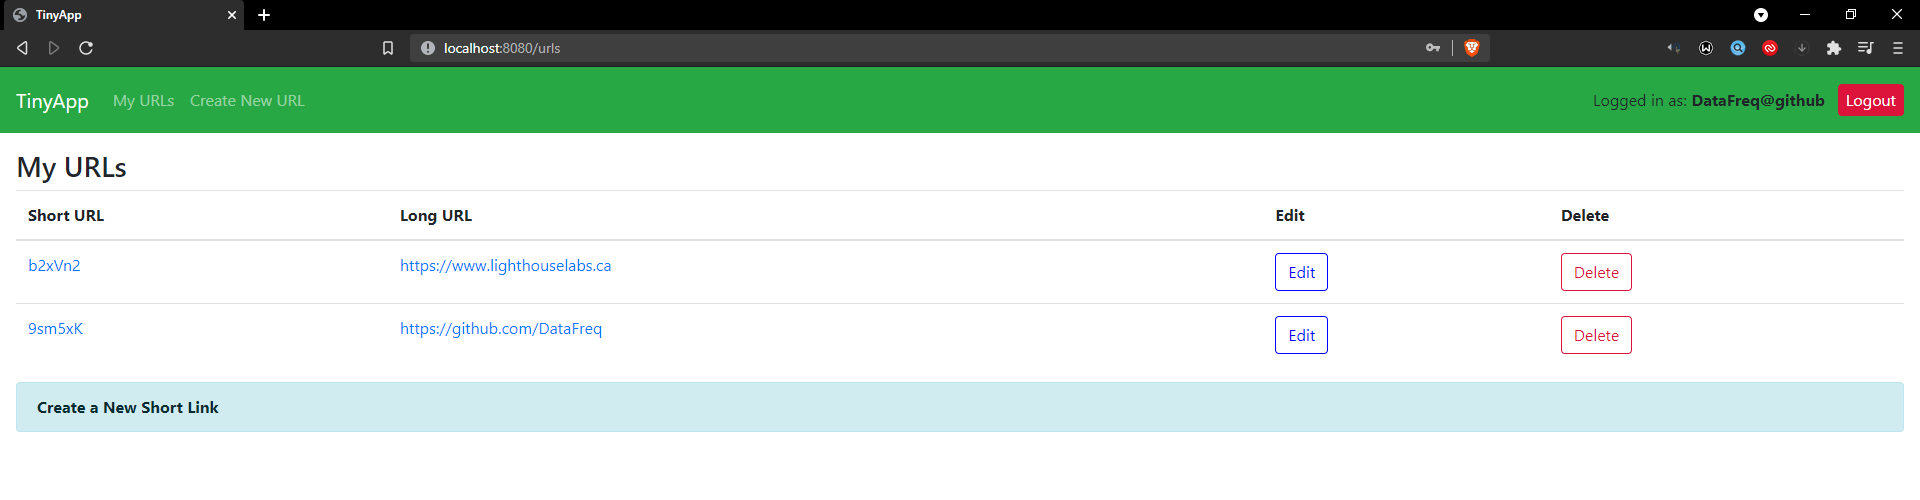
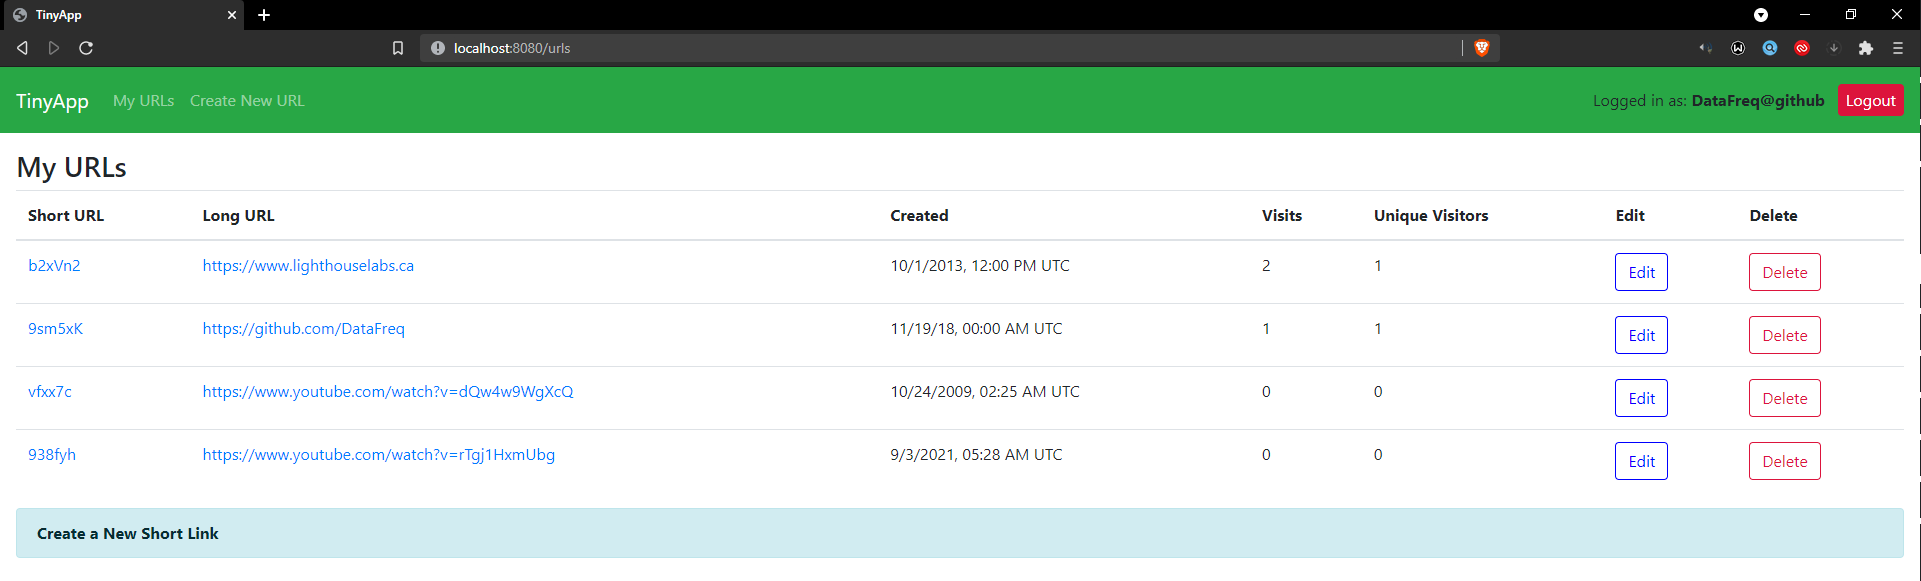
merge features/analytics into master

diff --git a/express_server.js b/express_server.js
@@ -1,4 +1,4 @@
-const { generateRandomString, writeUrlToDisk, writeUserToDisk, getUserByEmail, pullUserURLs } = require('./helpers');
+const { generateRandomString, writeUrlToDisk, writeUserToDisk, getUserByEmail, pullUserURLs, generateDate, uniqueCheck } = require('./helpers');
 const cookieSession = require('cookie-session');
 const bodyParser = require('body-parser');
 const express = require('express');
@@ -19,15 +19,11 @@ app.use(cookieSession({
 }));
 
 fs.readFile('./databases/urlDatabase.json', 'utf8', (err, jsonString) => {
-  if (err)
-    return res.status(500).send("Internal Server Error", err);
   // initial load of urlDatabase.json to memory
   urlDatabase = JSON.parse(jsonString);
 });
 
 fs.readFile('./databases/userDatabase.json', 'utf8', (err, jsonString) => {
-  if (err)
-    return res.status(500).send("Internal Server Error", err);
   // initial load of userDatabase.json to memory
   users = JSON.parse(jsonString);
 });
@@ -59,17 +55,24 @@ app.get('/urls/:shortURL', (req, res) => {
     return res.status(404).send("Invalid TinyURL link.");
   const templateVars = {
     shortURL: shortURL,
-    longURL: urlDatabase[shortURL].longURL,
     user: users[req.session.user_id],
-    owner: urlDatabase[shortURL].userID
+    urlDB: urlDatabase[shortURL],
   };
-  return res.render('urls_show', templateVars);
+  res.render('urls_show', templateVars);
 });
 
 app.get('/u/:shortURL', (req, res) => {
   if (!urlDatabase[req.params.shortURL])
     return res.status(404).send("Invalid URL");
-  const longURL = urlDatabase[req.params.shortURL].longURL;
+  const baseURL = urlDatabase[req.params.shortURL];
+  const longURL = baseURL.longURL;
+  let uuid = req.session.user_id;
+  if (!uuid) //if no cookie present, generate new id for unknown user
+    uuid = generateRandomString(urlDatabase);
+  baseURL.visits.push([uuid, generateDate()]);
+  if (uniqueCheck(uuid, baseURL.uVisits)) //checks db if uuid is present
+    baseURL.uVisits.push(uniqueCheck(uuid, baseURL.uVisits));
+  writeUrlToDisk(urlDatabase);
   res.redirect(longURL);
 });
 
@@ -100,7 +103,10 @@ app.post('/urls', (req, res) => {
   const shortURL = generateRandomString(urlDatabase);
   urlDatabase[shortURL] = {
     longURL: req.body.longURL,
-    userID: req.session.user_id
+    userID: req.session.user_id,
+    created: generateDate(),
+    visits: [],
+    uVisits: []
   };
   writeUrlToDisk(urlDatabase);
   res.redirect(`/urls/${shortURL}`);

diff --git a/helpers.js b/helpers.js
@@ -23,7 +23,7 @@ const writeUrlToDisk = data => {
   const file = "./databases/urlDatabase.json";
   fs.writeFile(file, JSON.stringify(data, null, 2), err => {
     if (err)
-      res.status(507).send("Could not write to disk", err);
+      return;
   });
 };
 
@@ -32,7 +32,7 @@ const writeUserToDisk = data => {
   const file = "./databases/userDatabase.json";
   fs.writeFile(file, JSON.stringify(data, null, 2), err => {
     if (err)
-      res.status(507).send("Could not write to disk", err);
+      return;
   });
 };
 
@@ -56,10 +56,27 @@ const pullUserURLs = (user, data) => {
   return userURLs;
 };
 
+const generateDate = () => {
+  const options = { timeZoneName: 'short', hour: '2-digit', minute: '2-digit' };
+  const dateTime = new Date().toLocaleDateString([], options);
+  return dateTime;
+};
+
+//unique user id check
+const uniqueCheck = (uuid , data) => {
+  for (let key in data) {
+    if (data[key][0] === uuid)
+      return false;
+  }
+  return [uuid, generateDate()];
+};
+
 module.exports = {
   generateRandomString,
   writeUrlToDisk,
   writeUserToDisk,
   getUserByEmail,
   pullUserURLs,
+  generateDate,
+  uniqueCheck,
 };

diff --git a/README.md b/README.md
@@ -17,6 +17,8 @@ TinyApp is a full-stack web application built with Node and Express that allows 
 
 !["Home page with all your urls"](./docs/readme-urls.PNG)
 
+!["Url info with visitor data"](./docs/readme-urldata.PNG)
+
 ## Dependencies
 - Node.js
 - [Express](https://www.npmjs.com/package/express)
